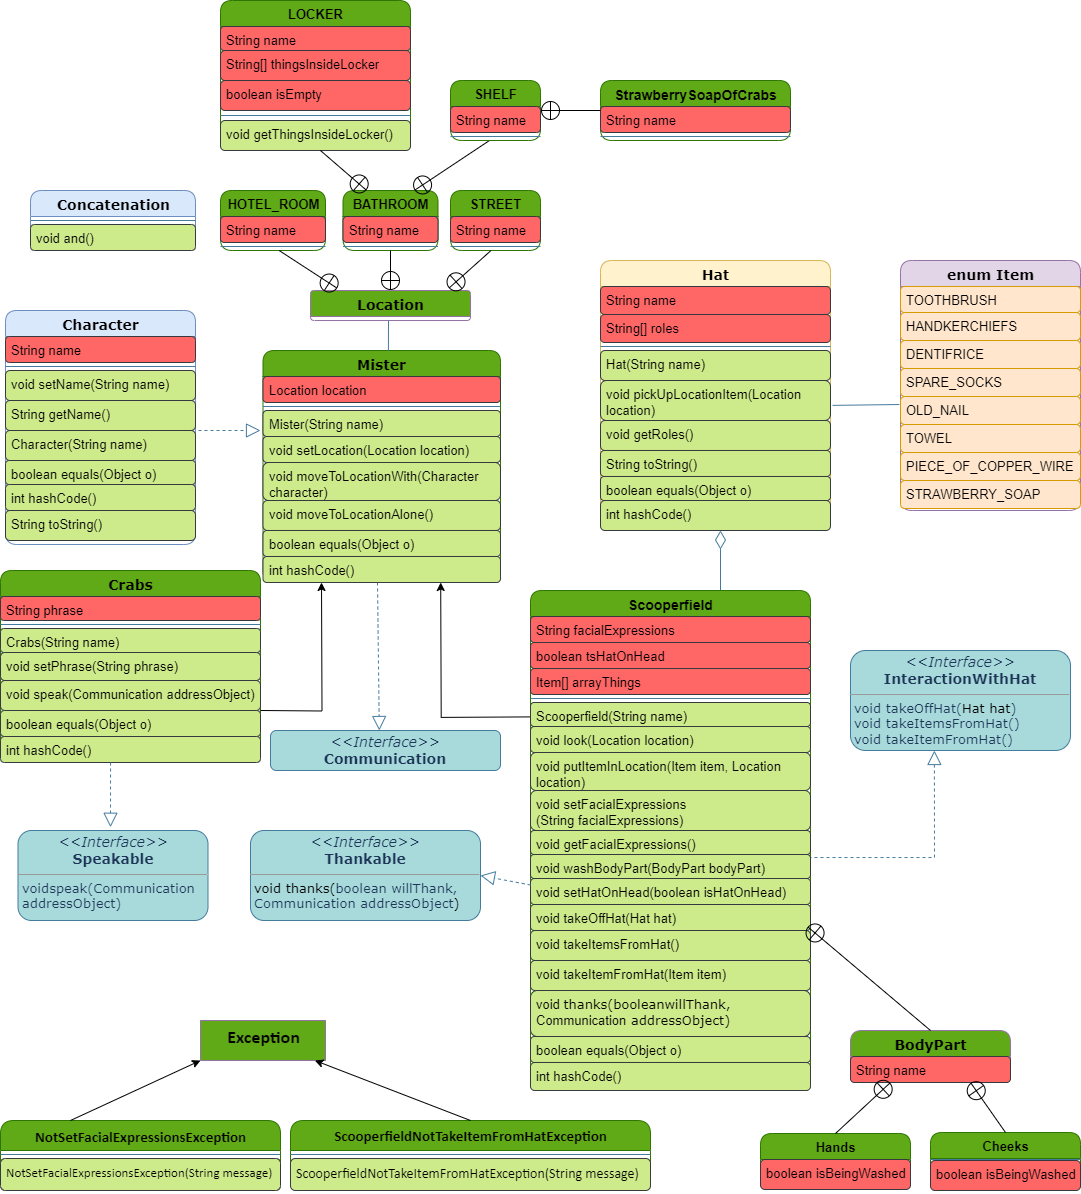
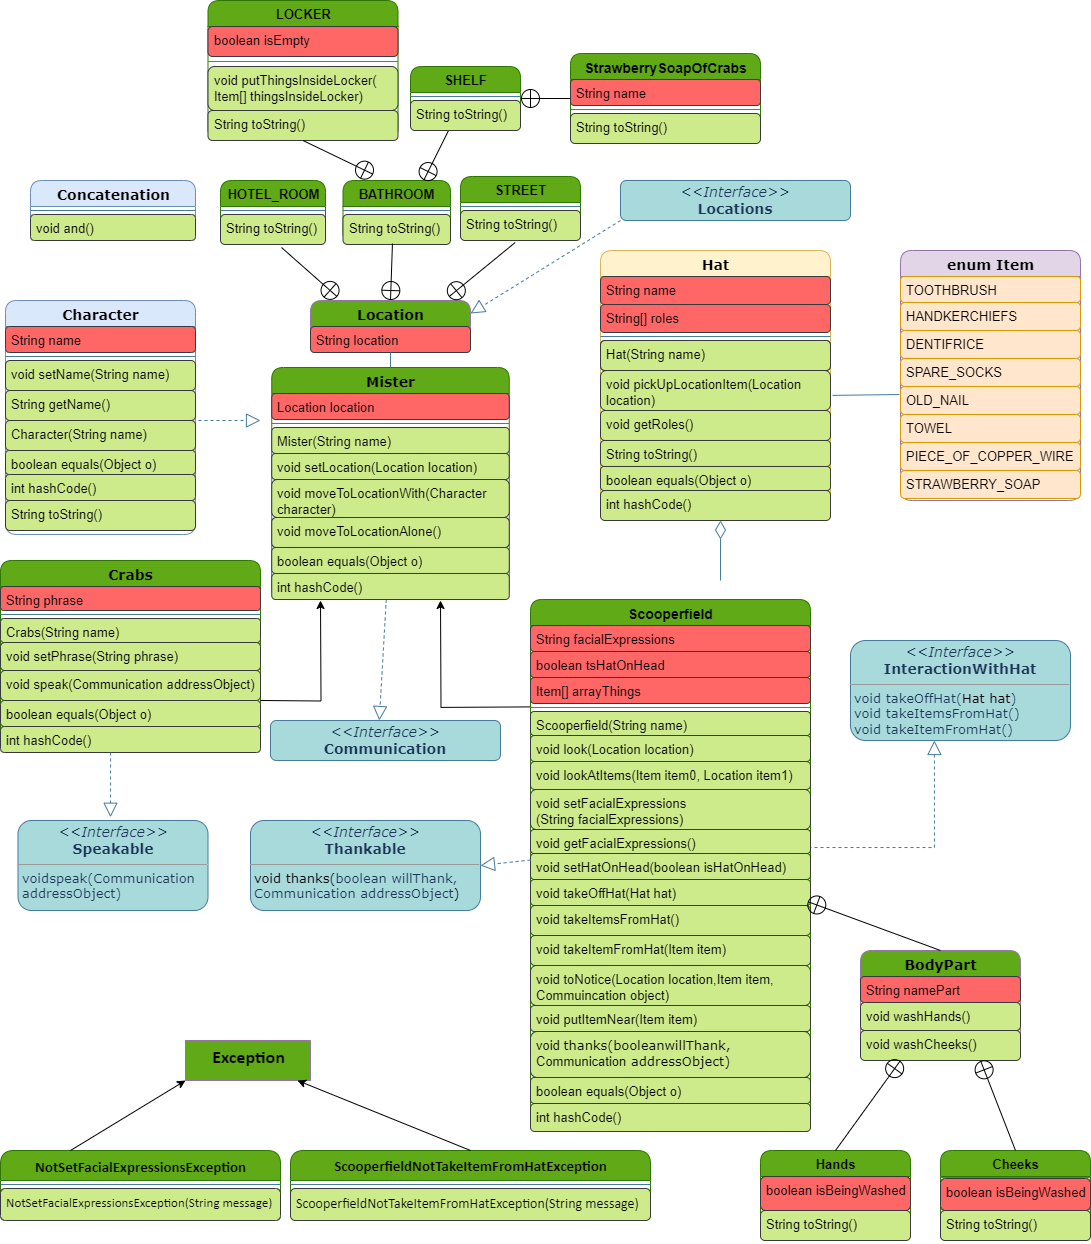
1. Changed method toNotice(); 2. Changed UML

diff --git a/src/main/java/аctors/Scooperfield.java b/src/main/java/аctors/Scooperfield.java
@@ -93,7 +93,7 @@ public class Scooperfield extends Mister implements Thankable, InteractionWithHa
     }
 
     // Метод "замечать где"
-    public void toNotice(Location.Bathroom.Shelf locations, Location.Bathroom.Shelf.StrawberrySoapOfCrabs item, Object object) {
+    public void toNotice(Location.Bathroom.Shelf locations, Location.Bathroom.Shelf.StrawberrySoapOfCrabs item, Communication object) {
         System.out.println("but then noticed on " + locations + " at the washstand, exactly the same" + item + " belonging to " + object);
     }
 
@@ -128,12 +128,15 @@ public class Scooperfield extends Mister implements Thankable, InteractionWithHa
     public class BodyPart {
         private String namePart;
 
+
         // Метод c локальным классом помыть руки
         public void washHands() {
             class Hands {
+                boolean isBeingWashed = true;
+
                 public Hands() {
                     namePart = " hands";
-                    boolean isBeingWashed = true;
+
                 }
 
                 @Override
